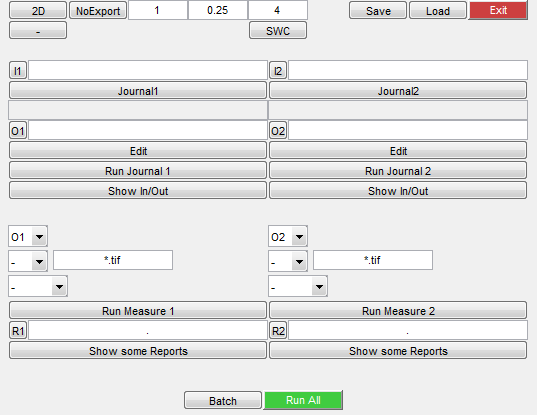
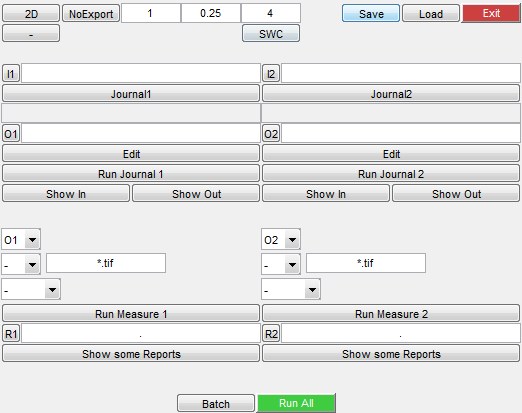
Updated documentation

diff --git a/user_guide.html b/user_guide.html
@@ -90,7 +90,7 @@
 	                              <b>LOBSTER</b> relies on simple objects masks as basic building blocks and it decouples objects identification, measurements and visualization. These operations are respectively performed by three computational modules called either interactively from MATLAB console or triggered from <b>LOBSTER</b> Panel (User Interface). In this tutorial we will use the last option; the other option enables building more complex applications, refer to <a href="scripting.html" target="_blank">this page</a> for details.
 				    			  </p>
                                   <div class="screenshot-holder">
-								    <img class="img-architecture" src="assets/images/architecture.png" alt="screenshot" width="640">
+								    <img class="img-architecture" src="assets/images/architecture.png" alt="screenshot" width="480">
 				    			  </div>
                                   <p>
                                   <b>JENI: Identifying objects</b></p>
@@ -137,37 +137,41 @@
                             <section id="gui-section" class="doc-section">
                                 <h2 class="section-title">LOBSTER Panel</h2>
                                 <div class="section-block">
-                                	<p>To start LOBSTER Panel, type >> <b>LOBSTER</b> in the console.</p>
-									<div class="screenshot-holder">
-								    	<img class="img-gui" src="assets/images/gui.png" alt="screenshot" width="480">
-				    			  	</div>
-                                  <p>
-                                  The panel enables to load up to 2 journals, trigger any kind of object measurements and exportat the object models. It is basically divided in three sections:</p>
-                                  <p>For now, the important parameters of the upper section (from left to write) are:</p>
+                                	<p>To start LOBSTER Panel, type >> <b>LOBSTER</b> in the console. The panel enables to load up to 2 journals, trigger any kind of object measurements and export 3D object models. A context help is provided when moving on an item from the panel. The important parameters from the upper section (from left to right) are:</p>
                                   <ul>
-                                  <li>The dimensionality of the images (2D/3D)</li>
-                                  <li>Whether object models should be exported (3D images only)</li>
-                                  <li>The images <b>ZRatio</b> (ratio between slice spacing and pixel size, default to 1)</li>
-                                  <li>If Journal 2 is a time-lapse journal (default to '<b>-</b>', no time-lapse)</li>
+                                  <li>Input images dimensionality (2D/3D)</li>
+                                  <li>Whether object models should be exported or not (3D images only)</li>
+                                  <li>Input images <b>ZRatio</b> (ratio between slice spacing and pixel size, default to 1)</li>
+                                  <li>If Journal 2 is a time-lapse journal or not (default to '<b>-</b>', no time-lapse)</li>
                                   </ul>
+                                  
+								  <p>The buttons on the right side are used to save/load a project and to exit the panel. To load a journal, press the button <b>Journal1</b> and browse to its name. For instance, let's open the 2D journal <font color="magenta">'Tissue_SegWaterTiles.jl'</font>. Loading a journal reads its input and output folders from the file, but these fields can be edited if required.</p>
 
-                                  <p>The buttons on the right are used to save/load a project and to exit the panel. To load a journal, press the button <b>Journal1</b> and browse to its name. For instance, let's open the 2D journal <font color="magenta">'Tissue_SegWaterTiles.jl'</font> as before. Loading a journal reads its input and output folders from the file but these fields can optionally be edited.</p>
+								  <div class="screenshot-holder">
+								    	<img class="img-gui" src="assets/images/gui.png" alt="screenshot" width="480">
+				    			  </div>
 
-                                  <p>To launch a journal press on the associated <b>Run</b> button. To  visually check the output of the journal, toggle the button <b>Batch</b> on the lower part to <b>Adjust</b>. If the parameters are not well adjusted, you can interrupt the journal by presing <b>'Q'</b>, edit the journal by clicking the associated <b>Edit</b> button, saving it (floppy disk or <b>Ctrl+S</b>) and launching it again. Once the parameters are well adjusted, toggle back to batch mode and launch the journal on all images from the input folder.</p>
+                                  <p>To launch a journal press on the associated <b>Run</b> button. To  visually check the output of the journal, toggle the button <b>Batch</b> on the lower part to <b>Adjust</b>. If the parameters are not well adjusted, you can interrupt the journal by presing <b>'Q'</b>, edit the journal by clicking the associated <b>Edit</b> button, saving it (floppy disk or <b>Ctrl+S</b>) and launching it again. Once the parameters are well adjusted, toggle back to batch mode and launch the journal to process all images from the input folder. It is possible to open a journal input and output folders by pressing <b>Show In</b> and <b>Show Out</b>.
 
-                                  <p>Next, to perform measurements on the identified objects, set mask folder to <b>O1</b>, that is the output journal 1 (this is the default value for Measure 1), and set the measurement to '<b>Objs</b>' (lower drop down menu). Now <b>Run</b> Measure 1, a folder with two <b>.csv</b> files with object measurements for the two input image should pop up. You can browse the first reports by clicking on <b>Show some Reports</b>. You can also inspect the measurement summary from MATLAB console.</p>
-
-                                  <p>It is possible to open input and output folders from a journal by pressing <b>Show In/Out</b>. Several examples of how to export 3D models and combine two journals to achieve advanced measurements are provided in the <b>/Projects</b> folder. Follow an example, also refer to <a href="https://" target="_blank">this video</a> to see how to open exported objects in ImageJ or external software.</p>
+                                  <p>Next, to perform measurements on the identified objects, set mask folder to <b>O1</b>, that is journal 1 output (default), and set the measurement to '<b>Objs</b>' (lower drop down menu) since we are here aiming to measure plain objects (cells). Now <b>Run Measure 1</b>, a folder with two <b>.csv</b> files (two input images) should pop up. You can browse the first reports by clicking <b>Show some Reports</b> and also inspect measurements summary from MATLAB console.</p>
 
                                   <div class="screenshot-holder">
 								    	<img class="img-gui2" src="assets/images/gui2.png" alt="screenshot" width="480">
 				    			  </div>
 
-				    			  <p>In this project, two journals are loaded: one to identify nuclei in a specific channel and another one to identify FISH spots in another channel. <b>Measure 1</b> is linked to <b>O1</b> to measure the nuclei and its intensity channel is used to measure <b>O2</b>, that is the FISH spot mask. Since the measurements report the number of non null intensity pixel per object, we get a per nucleus spot count!</p>
+				    			  <p>Now load the project <font color="magenta">'FISH.mat'</font>. In this project, two journals are loaded: one identifies nuclei and another one identifies FISH markers in another channel. <b>Measure 1</b> is linked to <b>O1</b> to measure nuclei and <b>O2</b> is measured as intensity channel. <b>O2</b> is the output of <b>Journal 2</b>, that is the seed mask localizing the FISH markers. Since object intensity measurements also report the number of non null pixel per object, the number of FISH marker per nucleus can be obtained! Importantly, all the journals and measurements can be triggered automatically by pressing <b>Run All</b>.</p>
 
-				    			  <p>The intensity channel can also be used as a regular intensity channel (redirected to <b>I1</b>) to measure the intensity statistics in a given channel of the input images. If the images from this channel for instance hold the string <font color="magenta">'_C01'</font>, the channel filter should be set to <font color="magenta">'*_C01*.tif'</font> instead of the default <font color="magenta">'*.tif'</font>. This is illustrated in the project <font color="magenta">'NucleiIntensityMeas.mat'</font>.
+				    			  <p>Regular intensity measurements (from <b>I1</b>) can also be performed. If the images from the channel to measure hold for instance the string <font color="magenta">'_C01'</font>, the channel filter should be set to <font color="magenta">'*_C01*.tif'</font> instead of the default <font color="magenta">'*.tif'</font>. This is illustrated in the project <font color="magenta">'NucleiIntensityMeas.mat'</font>.</p>
 
-				    			  <p>Importantly, all the journals and measurements can be triggered automatically by pressing <b>Run All</b>.</p>
+				    			  <p>Several examples of how to export 3D models and combine two journals to achieve advanced measurements are provided in the <b>/Projects</b> folder. Here is a list of tasks you can perform to get familiar with LOBSTER:
+				    			  <ul>
+                                  <li>Open project <font color="magenta">'BloodVesselsTracing.mat'</font>, click <b>Run All</b> and visualize the output models (SWC filament networks) by loading them from <a href="https://janeliascicomp.github.io/SharkViewer/" target="_blank">this webpage</a>.</li>
+                                  <li>Open project <font color="magenta">'CellPilar3DMesh.mat'</font>, click <b>Run All</b> and visualize the output models (STL mesh) by drag and droping them on <a href="https://www.viewstl.com/" target="_blank">this webpage</a>.</li>
+								  <li>Open project <font color="magenta">'LymphGlandCellInsight.mat'</font>, click <b>Run All</b>. Open ImageJ and drag and drop the macro CellInsight (from <b>Tools/CellInsight/CellInsight.ijm</b>). You also need to copy the file <b>GetString.ijm</b> from the same folder to ImageJ <b>macros</b> folder on first usage). Drag and drop the input image (the journal input folder is opened since the <b>.xls</b> CellInsight file is exported inside. Launch the macro and press <b>Import</b>. The object markers can be explored and edited (CellInsight). The input image can be opened in virtual stack mode to handle images of unlimited size.</li>
+								  <li>From the results of the previous project: open the input image in ImageJ, drag and drop the report file (<b>.csv</b>) to ImageJ and drag and drop + run the macro <b>Montager.ijm</b> from <b>Tools/</b>. You will see an interactive montage of all detected objects, clicking an object jump to its position in the original image. The input image can be opened in virtual stack mode to handle images of unlimited size.</li>
+								  <li>Open project <font color="magenta">'HeLaTracking.mat'</font>. This project performs tracking of dividing cells from a sequence of 2D images (<b>TL</b> is enabled). As can be noticed, <b>I2</b> points to <b>O1</b> since the 2D are first segmented into object masks by the first journal before being tracked by the second journal. Measuring the output of the second journal brings three report files: area, XPosition and YPosition (centroid) of the objects. The results can be visualized by running the ImageJ macro <b>Tools/OverlayTrackedObjects.ijm</b> and selecting the input from the first journal as input folder and the output of the second journal as output folder.</li>
+                                  </ul>
+				    			  </p>
 
                             </div>
                             </section><!--//doc-section-->
